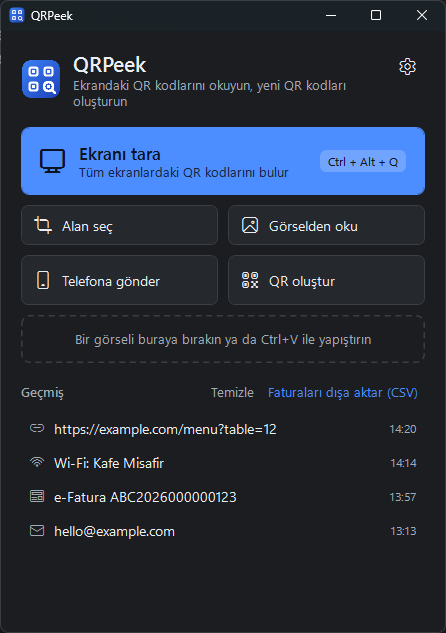
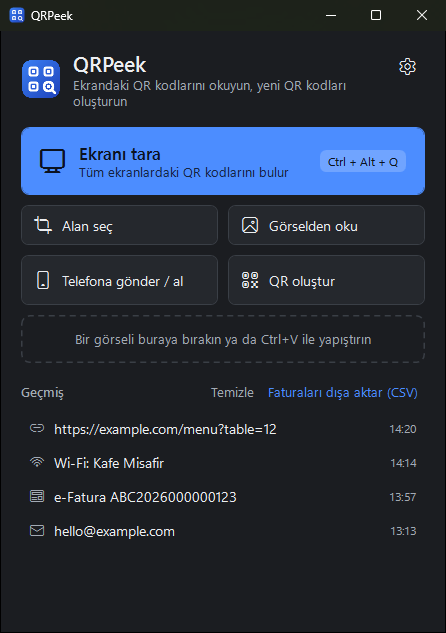
v0.2: yeni görseller; İngilizce düğme taşması ve klasörde kullanıcı adı düzeltildi
- README: ana pencere ve gönderme penceresi görüntüleri yenilendi,
  "Telefondan al" onay kartı eklendi (TR/EN); çoklu ekran notu kaldırıldı
  (%100 + %150 iki ekranla denendi)
- Store görselleri: "Telefondan al" sahnesi 2. sırada, toplam 6 görüntü
- Gönderme penceresinde İngilizce "Receive files" (uzun ad "Close"u eziyordu)
- Alma penceresi klasörü "İndirilenler\QRPeek" diye gösterir; tam yol
  ipucunda (ekranda kullanıcı adı görünmez)
- Testler: 142

Changed region(s): [[0.0, 0.0, 1.0, 1.0], [0.3789, 0.4202, 0.4081, 0.4502], [0.0, 0.0, 0.0291, 0.03]]

diff --git a/src/QRPeek/UI/SendWindow.xaml b/src/QRPeek/UI/SendWindow.xaml
@@ -51,7 +51,7 @@
             <Button DockPanel.Dock="Left" Click="OnReceive" Margin="8,0,0,0" ToolTip="{x:Static local:S.RecvHint}">
                 <StackPanel Orientation="Horizontal">
                     <TextBlock Text="&#xE896;" Style="{StaticResource Icon}" FontSize="14" Margin="0,0,8,0" />
-                    <TextBlock Text="{x:Static local:S.ReceiveFromPhone}" />
+                    <TextBlock Text="{x:Static local:S.ReceiveButton}" />
                 </StackPanel>
             </Button>
             <Button DockPanel.Dock="Right" Style="{StaticResource Primary}" Content="{x:Static local:S.Close}" Click="OnClose" IsCancel="True" />

diff --git a/src/QRPeek/S.cs b/src/QRPeek/S.cs
@@ -212,6 +212,8 @@ namespace QRPeek
 
         // Receive from phone (LAN upload with approval)
         public static string ReceiveFromPhone => T("Telefondan al", "Receive from phone");
+        /// <summary>Shorter, for the send window's button row (the English full name pushes "Close" out).</summary>
+        public static string ReceiveButton => T("Telefondan al", "Receive files");
         public static string SetReceiveHotkey => T("Telefondan dosya alma kısayolu", "Receive from phone shortcut");
         public static string RecvScanHint => T("Telefonun ya da tabletin kamerasıyla okutun", "Scan with your phone's or tablet's camera");
         public static string RecvHint => T("Cihaz bu bilgisayarla aynı Wi-Fi ağında olmalı. Siz onaylamadan hiçbir dosya alınmaz. Windows izin sorarsa “Erişime izin ver”i seçin.",
@@ -238,6 +240,7 @@ namespace QRPeek
         public static string ShowInFolder => T("Klasörde göster", "Show in folder");
         public static string RecvFolder => T("Kaydedilecek yer", "Save to");
         public static string ChangeFolder => T("Değiştir…", "Change…");
+        public static string DownloadsName => T("İndirilenler", "Downloads");
         public static string RecvExpired => T("Süre doldu. Yeniden almak için “Telefondan al”ı tekrar açın.", "Time's up. Open “Receive from phone” again to receive more.");
         public static string RecvOffline => T("Bu bilgisayar bir ağa bağlı değil; dosya alınamıyor.", "This PC isn't connected to a network, so files can't be received.");
         public static string UnknownDevice => T("Bilinmeyen cihaz", "Unknown device");

diff --git a/src/QRPeek/Core/ReceivedFiles.cs b/src/QRPeek/Core/ReceivedFiles.cs
@@ -151,6 +151,19 @@ namespace QRPeek.Core
             }
         }
 
+        /// <summary>
+        /// How to show a folder: "Downloads\QRPeek" instead of
+        /// "C:\Users\name\Downloads\QRPeek" (shorter, and no user name on screen).
+        /// </summary>
+        public static string Display(string folder, string downloads, string downloadsName)
+        {
+            if (string.IsNullOrEmpty(folder) || string.IsNullOrEmpty(downloads)) return folder;
+            string d = downloads.TrimEnd('\\');
+            if (string.Equals(folder.TrimEnd('\\'), d, StringComparison.OrdinalIgnoreCase)) return downloadsName;
+            if (folder.StartsWith(d + "\\", StringComparison.OrdinalIgnoreCase)) return downloadsName + folder.Substring(d.Length);
+            return folder;
+        }
+
         /// <summary>The default receive folder: Downloads\QRPeek.</summary>
         public static string DefaultFolder() => Path.Combine(Native.DownloadsFolder(), "QRPeek");
 

diff --git a/src/QRPeek/UI/ReceiveWindow.xaml.cs b/src/QRPeek/UI/ReceiveWindow.xaml.cs
@@ -51,7 +51,7 @@ namespace QRPeek.UI
         {
             Stop();
             string folder = App.Instance.ReceiveFolder;
-            FolderText.Text = folder;
+            FolderText.Text = ReceivedFiles.Display(folder, Native.DownloadsFolder(), S.DownloadsName);
             FolderText.ToolTip = folder;
             if (!ReceivedFiles.CanWrite(folder))
             {
@@ -252,7 +252,7 @@ namespace QRPeek.UI
                 App app = App.Instance;
                 app.Settings.ReceiveFolder = dlg.SelectedPath;
                 app.SaveSettings();
-                FolderText.Text = dlg.SelectedPath;
+                FolderText.Text = ReceivedFiles.Display(dlg.SelectedPath, Native.DownloadsFolder(), S.DownloadsName);
                 FolderText.ToolTip = dlg.SelectedPath;
                 if (_recv != null) _recv.Folder = dlg.SelectedPath;
                 else Start(); // e.g. the old folder wasn't writable

diff --git a/tests/QRPeek.Tests/ReceiveTests.cs b/tests/QRPeek.Tests/ReceiveTests.cs
@@ -51,6 +51,17 @@ namespace QRPeek.Tests
         }
 
         [Theory]
+        [InlineData(@"C:\Users\ayse\Downloads\QRPeek", @"İndirilenler\QRPeek")]
+        [InlineData(@"C:\Users\ayse\Downloads", "İndirilenler")]
+        [InlineData(@"c:\users\AYSE\downloads\a\b\", @"İndirilenler\a\b\")]
+        [InlineData(@"C:\Users\ayse\DownloadsOld\x", @"C:\Users\ayse\DownloadsOld\x")]
+        [InlineData(@"D:\Inbox", @"D:\Inbox")]
+        public void Shows_the_folder_without_the_user_name(string folder, string expected)
+        {
+            Assert.Equal(expected, ReceivedFiles.Display(folder, @"C:\Users\ayse\Downloads", "İndirilenler"));
+        }
+
+        [Theory]
         [InlineData("setup.exe", true)]
         [InlineData("run.PS1", true)]
         [InlineData("link.lnk", true)]

diff --git a/README.md b/README.md
@@ -24,7 +24,10 @@ A small Windows tool that reads QR codes **on your screen**, with no camera or p
   </tr>
   <tr>
     <td><img src="docs/images/send-tr.png" alt="Telefona gönder" width="300"></td>
-    <td><img src="docs/images/generator-tr.png" alt="QR oluşturucu" width="300"></td>
+    <td><img src="docs/images/receive-tr.png" alt="Telefondan al: bilgisayarda onay" width="300"></td>
+  </tr>
+  <tr>
+    <td colspan="2"><img src="docs/images/generator-tr.png" alt="QR oluşturucu" width="610"></td>
   </tr>
 </table>
 
@@ -38,7 +41,10 @@ A small Windows tool that reads QR codes **on your screen**, with no camera or p
   </tr>
   <tr>
     <td><img src="docs/images/send-en.png" alt="Send to phone" width="300"></td>
-    <td><img src="docs/images/generator-en.png" alt="QR generator" width="300"></td>
+    <td><img src="docs/images/receive-en.png" alt="Receive from phone: approval on the PC" width="300"></td>
+  </tr>
+  <tr>
+    <td colspan="2"><img src="docs/images/generator-en.png" alt="QR generator" width="610"></td>
   </tr>
 </table>
 
@@ -73,7 +79,6 @@ A small Windows tool that reads QR codes **on your screen**, with no camera or p
 
 ### Bilinen kısıtlar
 
-- İki ekranla (ikincisi kablosuz bağlı bir tablet) ekran taraması denendi ve çalışıyor; tek ekranda %150 ve %175 ölçek de sorunsuz. Ekranlar arasında farklı ölçekleme (ör. %100 + %150) varken alan seçme henüz ayrıntılı denenmedi. Uygulama monitör başına DPI uyumlu yazıldı; bu kurulumlarda bir sorun görürseniz lütfen [bildirin](https://github.com/umitkrkmz/qrpeek/issues/new/choose).
 - ARM64 işlemcili Windows 11 bilgisayarlarda (ör. Snapdragon X) henüz test edilmedi. Uygulama işlemciden bağımsız derlendiği için orada doğal olarak çalışması beklenir; sorun görürseniz lütfen bildirin.
 
 ### Kaynaktan derleme
@@ -114,7 +119,6 @@ dotnet test
 
 ### Known limitations
 
-- Scanning with two screens (the second a wirelessly connected tablet) has been tried and works, and 150% and 175% scaling on a single screen are fine. Selecting an area with mixed scaling between screens (e.g. 100% + 150%) hasn't been tried in depth yet. The app is written to be per-monitor DPI aware; if you see a problem on such a setup, please [report it](https://github.com/umitkrkmz/qrpeek/issues/new/choose).
 - Not yet tested on ARM64 Windows 11 PCs (e.g. Snapdragon X). The app is built CPU-independent, so it's expected to run natively there; if you see a problem, please report it.
 
 ### Build from source

diff --git a/CHANGELOG.md b/CHANGELOG.md
@@ -29,7 +29,7 @@ This file lists notable changes to QRPeek, by release.
 - Gönderme penceresi içeriği panodan kendiliğinden aldığında bunu belirtir ("Panodan alındı").
 
 **Diğer**
-- İki ekranla (kablosuz bağlı tablet) tarama ve tek ekranda %150 / %175 ölçek denendi.
+- Birden çok ekran ve ekranlar arasında farklı ölçek (%100 + %150, kablosuz bağlı tablet) denendi; tarama, görüntü netliği ve pencere yerleşimi sorunsuz. README'deki "denenmedi" notu kaldırıldı.
 - "Yaklaşık 1 MB" ifadesi belgelerden kaldırıldı; QRPeek küçük kalıyor ama boyut sabit bir sayı değil.
 
 ### [0.1.0] — 2026-11-11 (ilk sürüm)
@@ -90,7 +90,7 @@ This file lists notable changes to QRPeek, by release.
 - The send window says when it picked up the clipboard by itself ("From your clipboard").
 
 **Other**
-- Tried with two screens (a wirelessly connected tablet) and 150% / 175% scaling on a single screen.
+- Tried with several screens and mixed scaling between them (100% + 150%, a wirelessly connected tablet): scanning, sharpness and window placement are fine. The "untested" note is gone from the README.
 - Dropped "about 1 MB" from the docs; QRPeek stays small, but the size isn't a fixed number.
 
 ### [0.1.0] — 2026-11-11 (first release)
